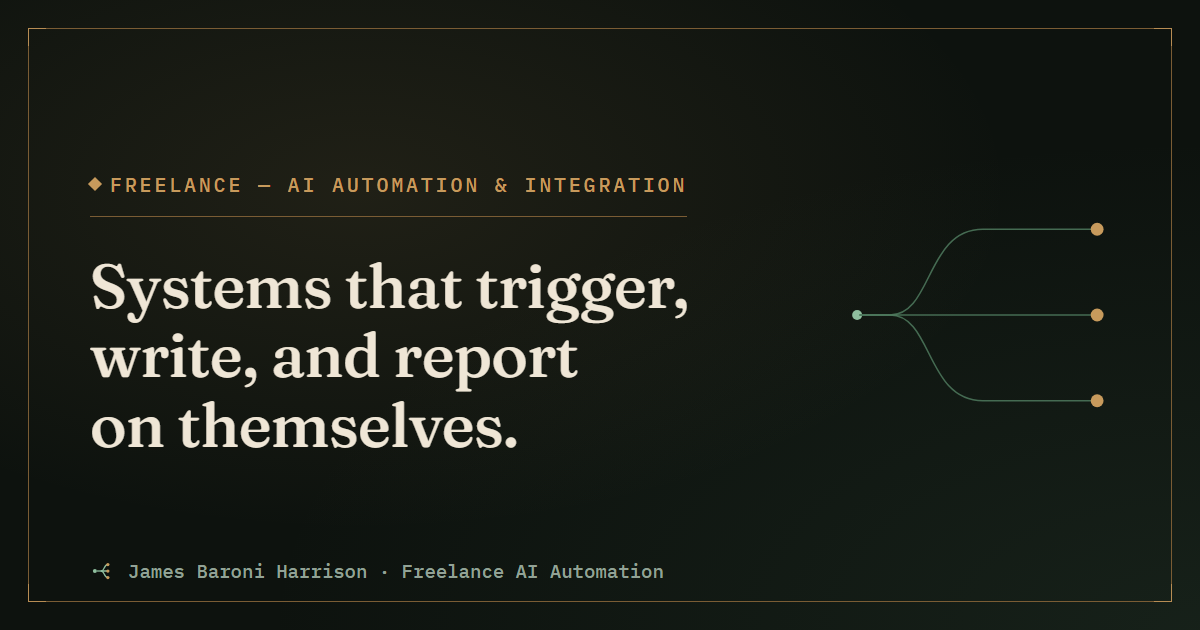
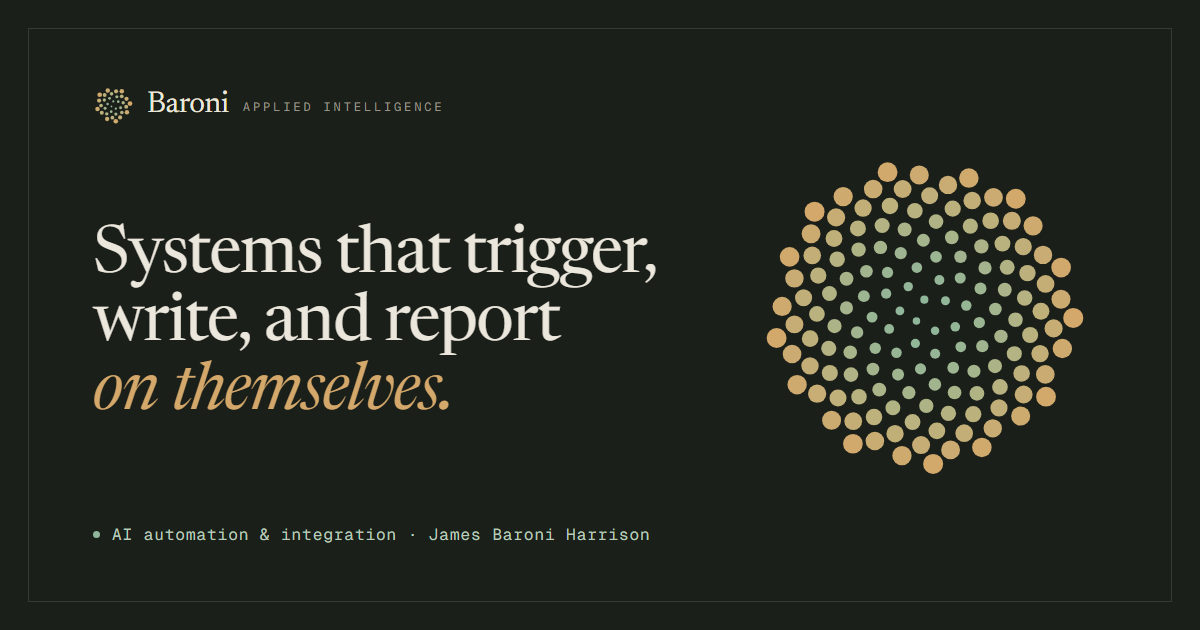
Rebrand as Baroni Applied Intelligence
New seed-head mark and "Baroni / APPLIED INTELLIGENCE" header lockup,
brand/ asset folder (mark tiers, favicons, app icons), updated title,
share metadata, manifest, footer and JSON-LD organisation, and a new
share image. Old root favicons removed. On phones under 360px the
header CTA makes way and Contact moves into the menu.

diff --git a/index.html b/index.html
@@ -3,35 +3,35 @@
 <head>
 <meta charset="utf-8">
 <meta name="viewport" content="width=device-width, initial-scale=1">
-<title>James Baroni Harrison — AI Automation &amp; Integration</title>
+<title>Baroni Applied Intelligence — AI automation &amp; integration</title>
 <meta name="description" content="Freelance AI automation and integration. End-to-end systems — from a single event to published content to the dashboard that shows it worked.">
 
 <!-- update this if/when a custom domain replaces the Render URL -->
 <link rel="canonical" href="https://daddys-website.onrender.com/">
 
-<link rel="icon" href="favicon.svg" type="image/svg+xml">
-<link rel="icon" href="favicon-32.png" type="image/png" sizes="32x32">
-<link rel="apple-touch-icon" href="apple-touch-icon.png">
+<link rel="icon" href="brand/favicon.svg" type="image/svg+xml">
+<link rel="icon" href="brand/favicon-32.png" sizes="32x32" type="image/png">
+<link rel="apple-touch-icon" href="brand/apple-touch-icon.png">
 <link rel="manifest" href="site.webmanifest">
 <meta name="theme-color" content="#1b1f1a">
 
 <meta property="og:type" content="website">
-<meta property="og:site_name" content="James Baroni Harrison">
-<meta property="og:title" content="James Baroni Harrison — AI Automation &amp; Integration">
+<meta property="og:site_name" content="Baroni Applied Intelligence">
+<meta property="og:title" content="Baroni Applied Intelligence — AI automation &amp; integration">
 <meta property="og:description" content="Freelance AI automation and integration. End-to-end systems — from a single event to published content to the dashboard that shows it worked.">
 <meta property="og:url" content="https://daddys-website.onrender.com/">
 <meta property="og:image" content="https://daddys-website.onrender.com/og-image.png">
 <meta property="og:image:width" content="1200">
 <meta property="og:image:height" content="630">
 <meta name="twitter:card" content="summary_large_image">
-<meta name="twitter:title" content="James Baroni Harrison — AI Automation &amp; Integration">
+<meta name="twitter:title" content="Baroni Applied Intelligence — AI automation &amp; integration">
 <meta name="twitter:description" content="Freelance AI automation and integration. End-to-end systems — from a single event to published content to the dashboard that shows it worked.">
 <meta name="twitter:image" content="https://daddys-website.onrender.com/og-image.png">
 
 <link rel="preconnect" href="https://fonts.googleapis.com">
 <link rel="preconnect" href="https://fonts.gstatic.com" crossorigin>
 <link href="https://fonts.googleapis.com/css2?family=Newsreader:ital,opsz,wght@0,6..72,400;0,6..72,500;1,6..72,400;1,6..72,500&family=Geist:wght@400;500;600&family=Geist+Mono:wght@400;500&display=swap" rel="stylesheet">
-<link rel="stylesheet" href="styles.css?v=6">
+<link rel="stylesheet" href="styles.css?v=10">
 
 <script type="application/ld+json">
 {
@@ -42,6 +42,7 @@
   "url": "https://daddys-website.onrender.com/",
   "description": "Freelance AI automation and integration. End-to-end systems — from a single event to published content to the dashboard that shows it worked.",
   "knowsAbout": ["AI Automation", "AI Integration", "Content Automation", "Workflow Automation"],
+  "worksFor": { "@type": "Organization", "name": "Baroni Applied Intelligence", "logo": "https://daddys-website.onrender.com/brand/icon-512.png" },
   "sameAs": [
     "https://www.linkedin.com/in/james-baroni-harrison-65371a1ab",
     "https://github.com/jamesbaroniharrison-maker"
@@ -55,7 +56,11 @@
 
 <header class="site-header">
   <div class="container header-row">
-    <a href="#top" class="logo" aria-label="James Baroni Harrison — home"><span class="diamond"></span>JBH</a>
+    <a href="#top" class="logo" aria-label="Baroni Applied Intelligence — home">
+      <img src="brand/baroni-mark-sm.svg" alt="" width="30" height="30">
+      <span class="logo-word">Baroni</span>
+      <span class="logo-tag">APPLIED INTELLIGENCE</span>
+    </a>
     <nav class="nav" aria-label="Primary">
       <div class="nav-links">
         <a href="#about" data-nav="about">About</a>
@@ -72,6 +77,7 @@
     <a href="#work" data-menu="work"><span>Work</span><span class="arrow">→</span></a>
     <a href="#services" data-menu="services"><span>Services</span><span class="arrow">→</span></a>
     <a href="#credentials" data-menu="credentials"><span>Credentials</span><span class="arrow">→</span></a>
+    <a href="#contact" data-menu="contact" class="menu-contact"><span>Contact</span><span class="arrow">→</span></a>
   </div>
 </header>
 
@@ -238,13 +244,13 @@
 
 <footer class="site-footer">
   <div class="container footer-row">
-    <span class="footer-name">James Baroni Harrison</span>
+    <span class="footer-name">Baroni Applied Intelligence · James Baroni Harrison</span>
     <a href="#top">Back to top ↑</a>
     <span>© <span class="footer-year">2026</span></span>
   </div>
 </footer>
 
-<script src="script.js?v=6"></script>
+<script src="script.js?v=9"></script>
 
 <!-- Cloudflare Web Analytics — cookieless, no consent banner needed.
      See ANALYTICS_SETUP.md. -->

diff --git a/styles.css b/styles.css
@@ -37,9 +37,15 @@ p{margin:0}
 /* header */
 .site-header{position:sticky;top:0;z-index:20;background:rgba(27,31,26,.86);-webkit-backdrop-filter:blur(12px);backdrop-filter:blur(12px);border-bottom:1px solid var(--line)}
 .header-row{min-height:68px;display:flex;align-items:center;justify-content:space-between;gap:12px 24px}
-.logo{display:flex;align-items:center;gap:10px;color:var(--ink);font-family:var(--mono);font-size:14px;font-weight:500;letter-spacing:.14em}
+.logo{display:flex;align-items:center;gap:11px;color:var(--ink)}
 .logo:hover{color:var(--ink)}
-.diamond{width:8px;height:8px;background:var(--gold);transform:rotate(45deg)}
+.logo img{width:30px;height:30px;display:block;flex:0 0 auto}
+.logo-word{font-family:var(--serif);font-size:22px;line-height:1;letter-spacing:-.01em;white-space:nowrap}
+.logo-tag{font-family:var(--mono);font-size:10px;letter-spacing:.24em;color:var(--ink-3);margin-top:3px;white-space:nowrap}
+@media (max-width:599px){.logo-tag{display:none}}
+/* Very narrow phones: the header CTA makes room and Contact moves into the menu */
+.menu-contact{display:none!important}
+@media (max-width:359px){.btn-sm{display:none}.menu-contact{display:flex!important}}
 .nav{display:flex;align-items:center;gap:4px}
 .nav-links{display:flex;gap:4px}
 .nav-links a{padding:8px 12px;font-size:14px;white-space:nowrap;color:var(--ink-2);border-bottom:1px solid transparent}
